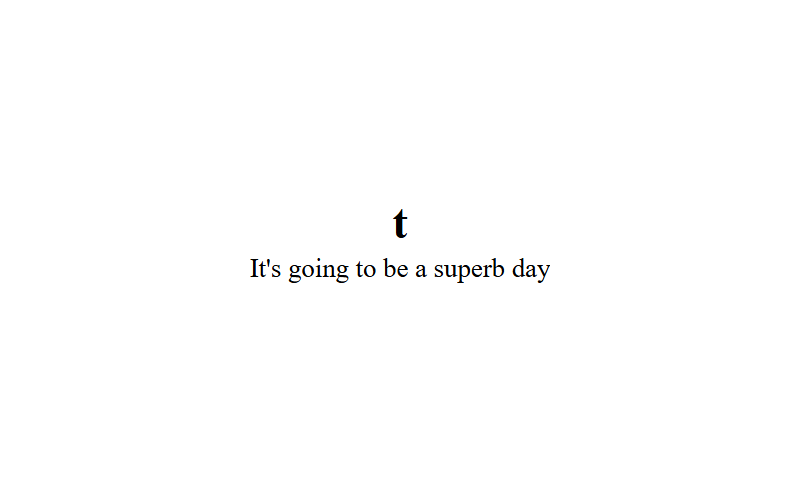
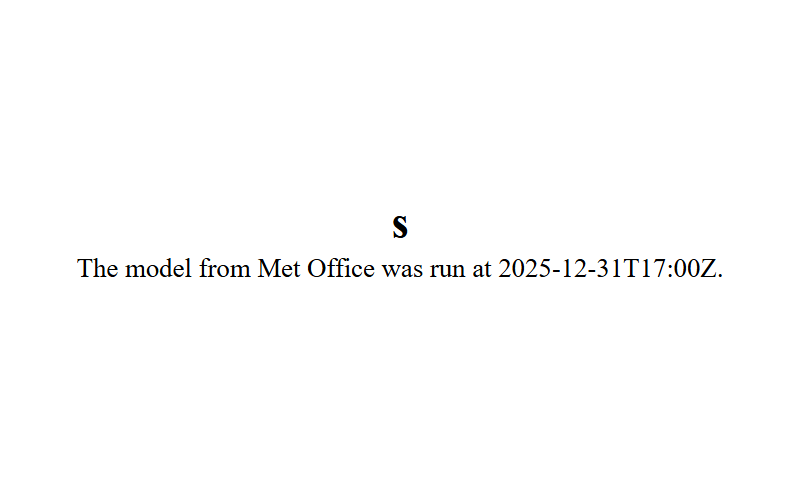
feat: extract the run date from the Met Office data and return to InkyPi

Changed region(s): [[0.0938, 0.5312, 0.9062, 0.5938], [0.4688, 0.4375, 0.5312, 0.5]]

diff --git a/src/plugins/burnsyweather/WeatherGetter.py b/src/plugins/burnsyweather/WeatherGetter.py
@@ -43,10 +43,11 @@ class WeatherGetter:
         root = Root.from_dict(jsonstring)
 
         print(f"Root.type: {root.type}")
+        modelRunDate= root.features[0].properties.modelRunDate
 
 
 
-        return f"It's going to be a superb day"
+        return f"The model from Met Office was run at {modelRunDate}."
     
     def get_value_from_json(self, key, sub_key):
 
